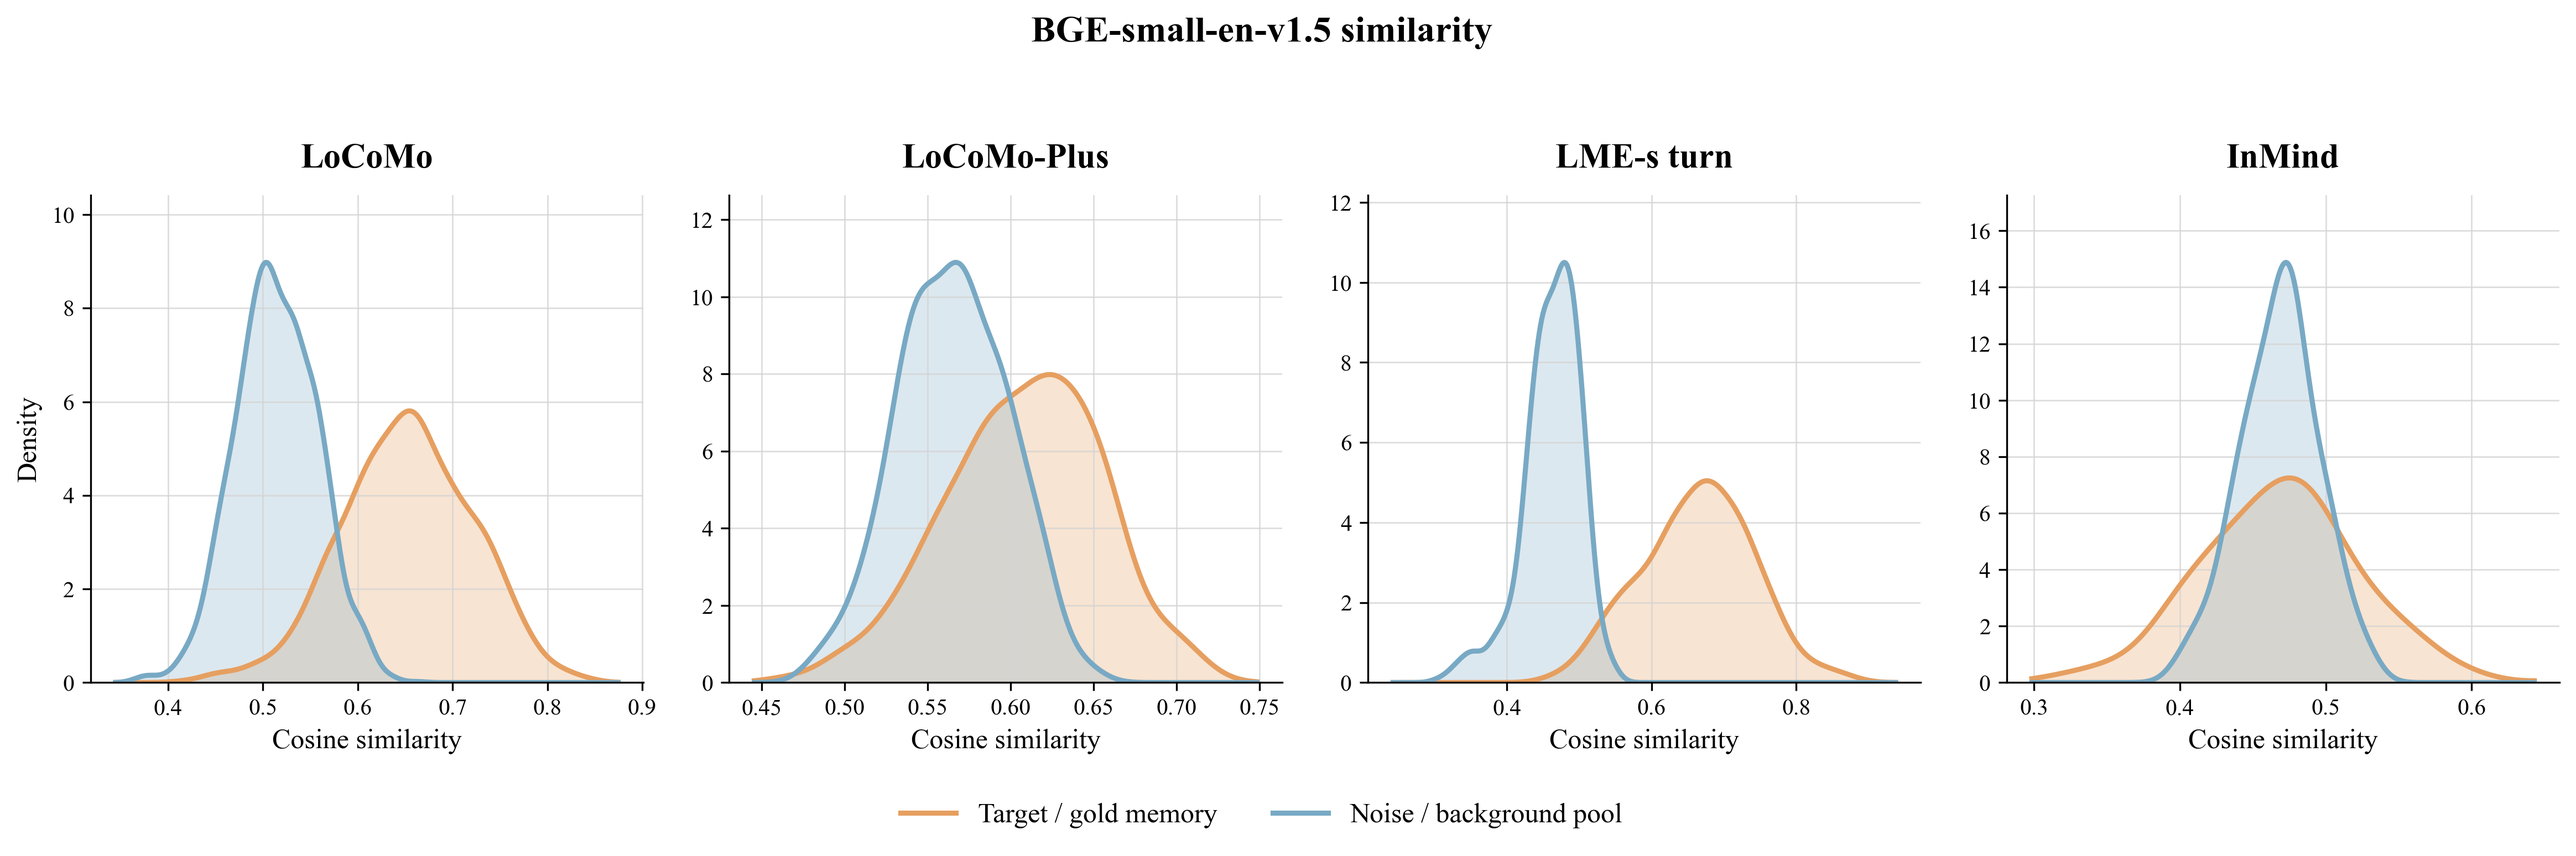
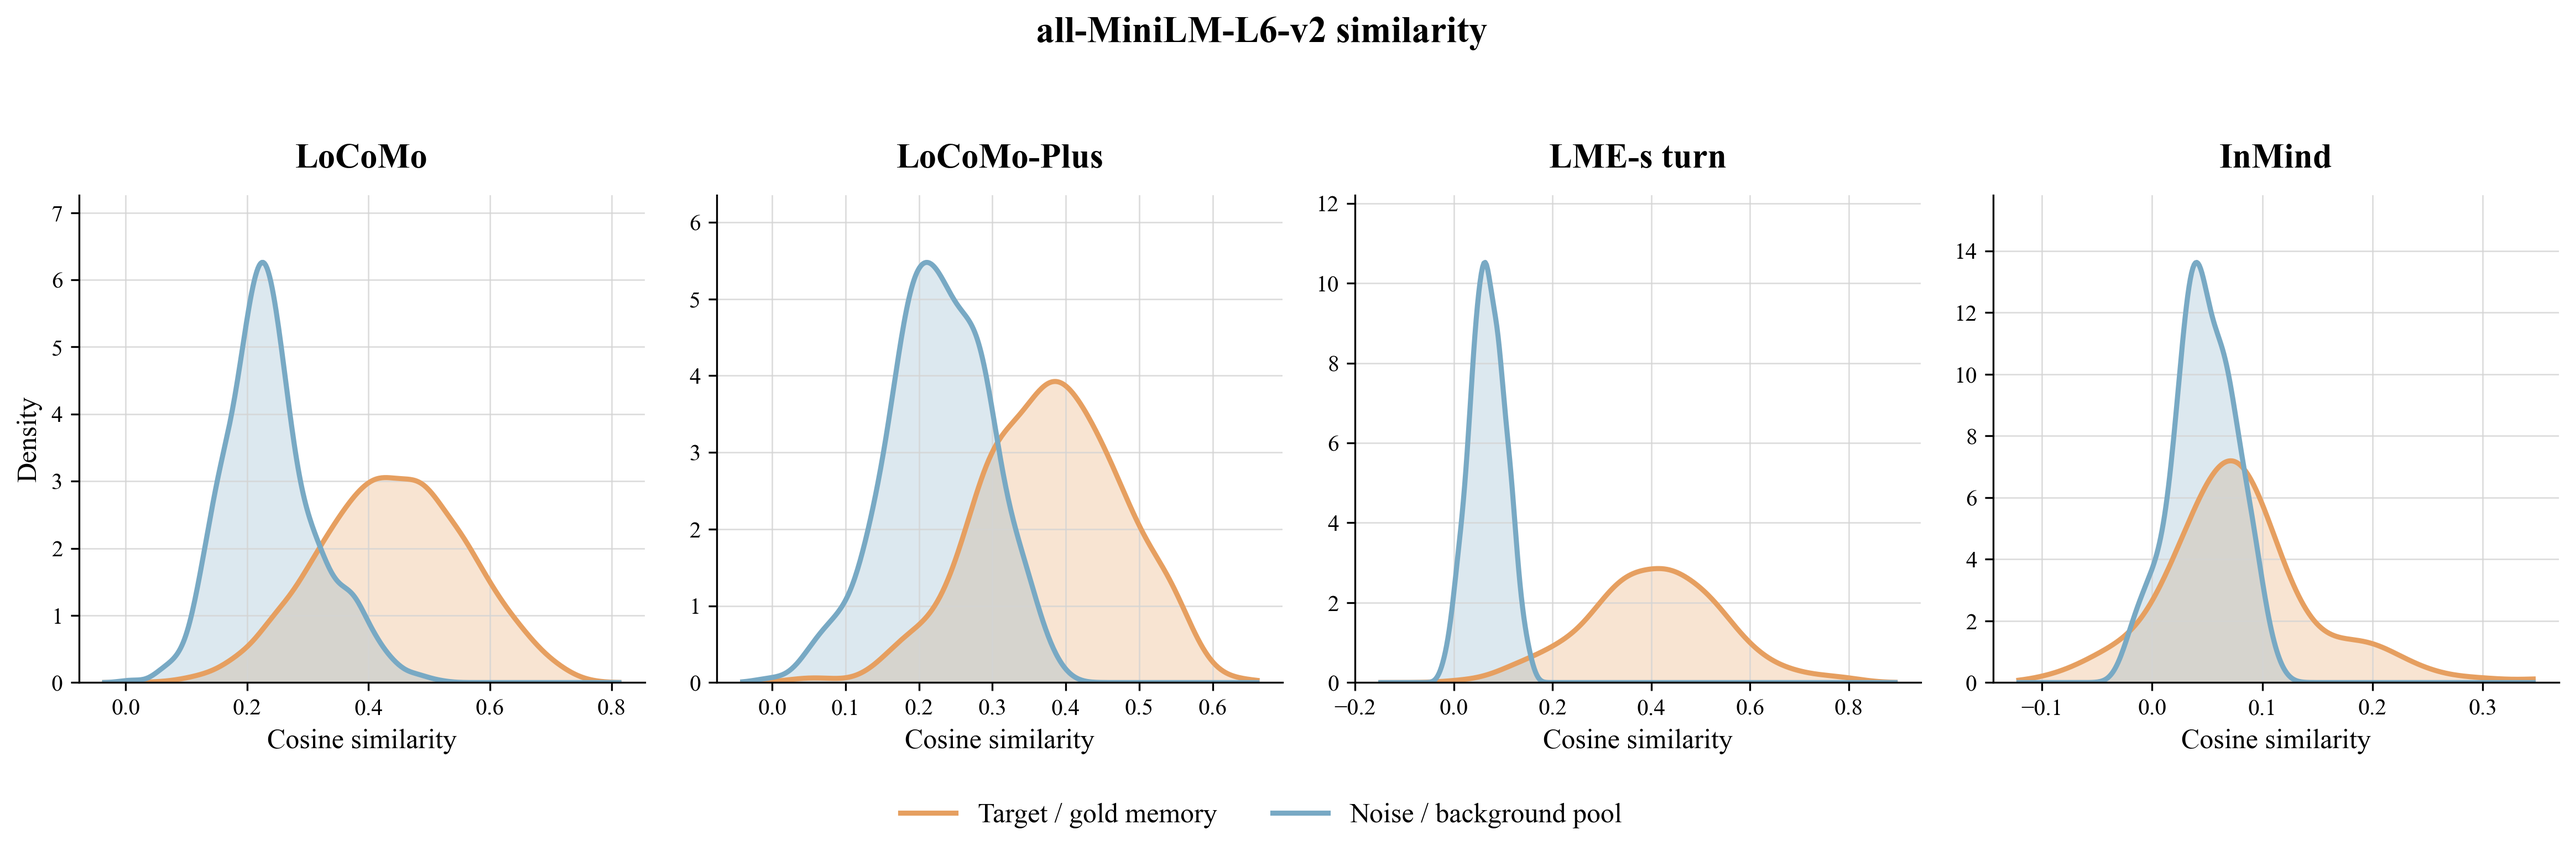
Use MiniLM similarity comparison

diff --git a/benchmark/README.md b/benchmark/README.md
@@ -72,13 +72,13 @@ An answer-level judge checks whether the final response applies the expected bri
 
 ## Why similarity is not enough
 
-In common memory benchmarks, target memories tend to be more similar to the query than background memories. InMind is constructed to suppress that signal: the target-memory and background distributions substantially overlap under an independently selected embedding model.
+In common memory benchmarks, target memories tend to be more similar to the query than background memories. InMind is constructed to suppress that signal: under `all-MiniLM-L6-v2`, the target-memory and background distributions substantially overlap.
 
 <p align="center">
-  <img src="../assets/similarity_comparison.png" width="100%" alt="BGE-small-en-v1.5 target and background similarity distributions for LoCoMo, LoCoMo-Plus, LME-s turn, and InMind.">
+  <img src="../assets/similarity_comparison.png" width="100%" alt="all-MiniLM-L6-v2 target and background similarity distributions for LoCoMo, LoCoMo-Plus, LME-s turn, and InMind.">
 </p>
 
-<p align="center"><em>Target/gold memories are orange; noise/background memories are blue. InMind deliberately reduces target–background separation.</em></p>
+<p align="center"><em>Cosine similarity under all-MiniLM-L6-v2. Target/gold memories are orange; noise/background memories are blue. InMind deliberately reduces target–background separation.</em></p>
 
 The figure is a diagnostic, not a claim that every possible retriever must fail. A sufficiently expensive world-model-based relevance function could discover the bridge, but it would no longer be ordinary similarity retrieval. InMind measures how current memory interfaces behave in this gap.
 

diff --git a/assets/README.md b/assets/README.md
@@ -6,6 +6,6 @@ These figures are exported from the InMind manuscript and are included here to e
 | --- | --- |
 | `implicit_association_example.png` | Motivating tree-nut-allergy/macaron failure case |
 | `benchmark_taxonomy.png` | Comparison with explicit recall, state aggregation, and conversational multi-hop tasks |
-| `similarity_comparison.png` | Target-versus-background similarity distributions under BGE-small-en-v1.5 |
+| `similarity_comparison.png` | Target-versus-background similarity distributions under all-MiniLM-L6-v2 |
 
 The manuscript remains the canonical source for figure captions, experimental setup, and interpretation.
